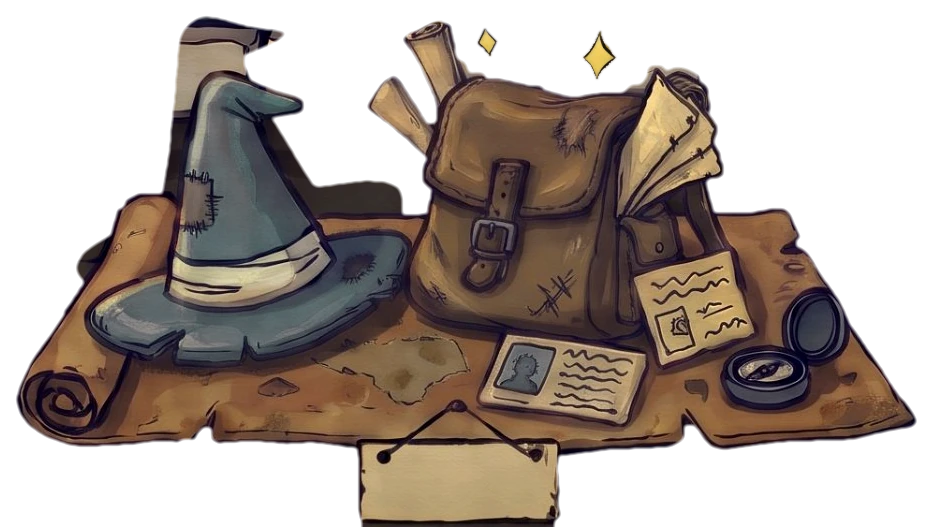
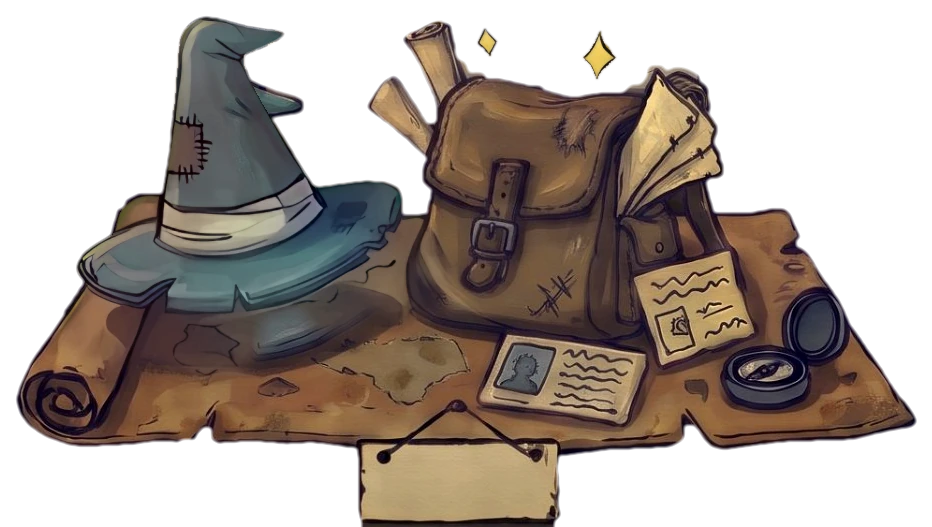
v23: hover frames drawn at one uniform scale (fixed button heights, no vertical stretch); construct outline follows raised fist and shelf end; About hat float restored and outline matches it
Claude-Session: https://claude.ai/code/session_01DVG5f7VBQkdwappbx1RNPL

Changed region(s): [[0.0622, 0.0304, 0.4979, 0.7287]]

diff --git a/concepts/scenes/workshop.js b/concepts/scenes/workshop.js
@@ -21,7 +21,7 @@ PF.init({
     var el=P.el,K=900/572,OX=(1600-1024*K)/2,T='translate('+OX+',0) scale('+K+')';
     var CUT={raven:{x:49.69,y:19.48,w:233.74,h:296.94},construct:{x:769.59,y:48.10,w:254.41,h:273.49},books:{x:50.09,y:331.93,w:234.93,h:239.70},about:{x:333.52,y:358.96,w:377.24,h:212.67},disc:{x:674.98,y:275.88,w:284.22,h:295.75}};
     var HOV={raven:{x:53.66,y:22.66,w:294.56,h:289.39},books:{x:69.57,y:241.29,w:212.67,h:166.96},construct:{x:748.52,y:50.48,w:205.12,h:209.09},about:{x:336.30,y:362.14,w:370.48,h:209.49},disc:{x:718.31,y:280.25,w:236.52,h:256.00}};
-    var RING={"disc":"M843.13 567.66 807.75 568.01 797.81 567.80 795.43 567.05 791.82 563.28 790.78 560.50 789.90 543.80 790.00 537.04 791.11 533.86 790.66 532.90 777.14 526.69 772.77 527.71 768.40 527.68 764.02 526.95 760.05 525.02 758.06 524.64 751.70 527.14 745.34 527.28 735.40 525.91 733.02 524.89 728.66 520.75 728.04 519.16 728.12 517.57 732.08 511.60 736.20 506.75 738.02 502.06 737.52 500.07 735.66 496.89 734.30 488.55 732.62 485.83 730.63 484.50 714.73 481.58 699.63 482.31 694.06 481.34 691.74 480.20 690.03 478.61 685.10 472.25 684.22 469.47 684.51 467.08 687.11 461.91 689.69 459.35 695.25 455.86 702.81 452.48 713.54 449.81 715.21 448.40 712.15 432.10 710.82 418.98 710.84 404.67 712.95 386.39 715.83 374.06 720.62 360.55 728.15 345.04 734.75 335.11 743.21 324.37 753.69 313.89 763.63 306.16 773.57 299.85 783.90 294.66 794.63 290.48 806.56 287.27 821.66 285.13 833.99 285.10 838.76 286.18 846.31 286.54 866.98 292.82 870.56 293.10 873.34 293.94 884.07 299.02 888.84 301.85 906.73 314.81 913.89 320.63 916.27 324.42 924.54 334.71 929.83 342.66 935.87 353.39 941.15 365.71 944.32 375.25 947.48 388.77 949.55 405.47 949.70 415.80 951.16 420.57 951.14 424.15 949.92 431.70 947.06 445.22 944.75 453.57 931.06 482.58 930.88 485.37 932.02 488.94 932.31 493.32 934.85 500.07 934.57 502.06 932.95 505.24 932.77 510.01 931.73 512.40 930.19 513.92 928.20 514.82 921.84 515.13 918.66 518.36 916.67 519.42 911.50 518.67 908.72 519.18 900.37 525.88 894.81 529.02 891.23 529.34 882.88 527.62 871.27 532.67 870.59 533.86 872.83 536.25 874.05 540.62 874.47 551.35 874.03 562.48 873.27 564.47 871.75 565.66 869.37 566.34 843.13 567.66Z","raven":"M142.71 308.88 135.95 309.21 124.82 308.32 122.43 307.29 120.40 305.69 119.48 304.10 119.01 301.71 119.23 291.78 117.71 281.04 118.37 276.27 119.87 274.68 122.43 273.73 132.91 273.09 137.90 268.72 138.29 267.93 137.93 267.13 132.37 266.03 128.80 265.91 111.70 267.86 69.17 267.82 65.19 267.20 62.01 266.00 59.05 263.55 57.37 261.17 56.11 254.41 56.41 240.50 58.54 235.73 60.02 234.19 62.81 232.54 63.61 230.56 63.27 207.11 63.84 202.73 64.93 199.16 63.29 190.81 62.87 168.94 63.54 163.78 66.38 155.83 64.62 150.26 63.68 143.50 63.65 127.60 64.15 122.04 65.82 115.68 68.56 109.71 66.99 105.74 66.98 102.16 68.69 93.02 72.28 81.89 75.73 75.13 79.80 69.57 83.08 66.42 87.78 64.00 89.72 58.04 94.21 52.77 115.68 36.08 120.05 33.68 127.20 32.32 132.77 29.65 138.73 27.74 150.26 25.64 163.38 25.08 175.30 25.59 185.24 27.57 189.22 29.12 192.80 31.47 199.95 32.53 205.52 34.95 218.63 44.51 226.19 50.78 229.38 54.06 231.48 58.04 235.33 60.42 238.60 63.60 240.99 67.18 246.75 78.31 253.01 96.99 254.29 102.56 254.10 107.73 255.30 111.30 255.85 115.28 256.42 125.61 256.77 126.81 257.59 127.51 259.98 127.43 268.72 124.69 270.71 125.12 273.09 126.60 274.68 126.79 284.22 124.08 293.50 120.45 310.86 110.23 315.23 108.20 317.22 108.47 318.79 110.11 318.91 112.50 317.51 116.47 318.01 117.19 318.81 117.18 323.67 114.88 335.11 108.22 338.29 107.27 339.88 107.66 341.25 108.92 341.71 110.51 341.33 112.89 338.59 117.66 332.30 124.82 332.17 126.01 333.91 126.23 345.04 122.83 346.63 123.18 347.73 124.02 348.47 126.81 346.72 130.39 339.88 137.24 335.90 140.14 325.59 145.89 325.81 146.68 326.76 147.01 335.90 147.63 337.49 148.81 338.04 150.66 337.09 152.76 333.91 155.61 323.11 160.60 322.92 161.39 324.12 164.57 322.78 166.99 319.20 169.06 314.43 170.89 308.87 170.89 306.56 174.51 304.89 175.94 301.71 177.51 296.15 179.15 294.78 182.46 292.97 184.24 290.58 185.10 283.03 186.30 280.71 189.61 279.06 190.91 272.55 192.00 271.30 195.58 269.91 196.95 266.73 198.11 262.76 198.19 261.68 199.16 258.40 205.12 257.60 211.48 256.78 228.57 257.59 230.72 261.57 232.72 263.45 234.53 264.98 237.32 265.98 240.50 267.02 246.06 267.05 253.22 265.96 259.98 264.35 262.43 260.77 264.90 256.80 265.86 204.72 266.31 184.49 267.93 183.72 268.72 183.86 269.52 186.83 271.86 188.82 272.30 198.36 272.56 200.30 273.49 201.48 275.08 201.89 277.86 201.88 302.11 201.54 304.10 200.75 305.31 197.96 306.71 188.02 307.60 142.71 308.88Z","books":"M159.01 566.46 142.31 566.37 137.14 565.32 131.58 566.05 128.40 564.83 125.91 562.09 124.11 549.76 124.20 532.27 125.51 529.49 128.40 527.26 131.58 526.46 138.34 525.90 138.71 525.12 138.39 524.32 134.41 520.35 122.43 514.65 116.07 512.56 105.25 508.02 96.99 506.70 87.85 503.87 77.04 498.88 63.60 494.00 61.22 492.59 59.23 490.66 57.82 487.75 57.73 482.98 60.34 474.63 58.96 469.86 59.01 464.70 56.62 458.34 56.31 449.19 57.53 446.81 61.28 443.63 61.92 442.43 62.59 434.88 63.94 430.91 64.63 422.96 66.60 416.60 71.16 409.69 73.54 407.95 77.91 406.00 79.64 403.88 79.85 397.12 78.03 391.55 79.09 387.98 81.89 385.29 85.86 383.09 97.79 377.88 105.34 375.90 106.60 374.86 106.28 373.27 99.95 361.74 97.96 355.38 97.44 351.40 97.47 343.45 98.37 335.50 103.69 321.59 106.00 318.41 107.73 317.26 110.51 316.58 129.99 315.18 147.88 313.15 159.40 311.30 161.79 310.39 166.16 306.59 168.94 305.21 175.70 303.41 183.25 303.66 194.16 296.55 213.47 282.46 217.04 280.79 221.02 280.46 224.20 281.23 228.97 283.44 233.74 283.17 237.71 283.93 242.48 286.41 247.03 290.58 248.72 292.97 250.56 297.74 251.57 303.70 250.67 309.27 253.11 313.24 253.93 317.22 253.81 321.99 252.24 328.75 250.73 331.53 248.45 334.10 243.68 337.19 227.78 341.66 214.66 344.48 213.39 345.44 213.89 346.24 217.84 347.75 220.62 349.67 223.31 352.60 225.14 355.78 226.90 360.55 227.70 365.71 227.52 370.48 226.03 373.66 226.43 374.86 232.94 376.29 241.29 377.00 245.27 377.89 248.84 380.13 253.95 382.01 256.13 384.00 257.46 385.99 258.21 388.37 258.20 391.16 255.44 396.32 254.97 401.09 259.18 406.92 262.38 410.24 263.46 413.42 263.04 416.60 260.91 420.17 259.37 426.53 259.36 428.52 260.56 430.91 263.07 432.89 269.12 435.01 272.30 437.17 274.65 439.65 276.10 442.43 277.99 449.19 278.61 455.95 278.06 463.50 276.35 472.65 274.40 477.02 270.31 480.30 263.16 483.20 258.39 484.56 250.43 488.17 236.92 492.12 221.10 498.09 210.68 502.69 196.77 507.27 193.19 509.48 187.67 515.18 187.55 516.37 188.42 517.43 200.92 525.91 203.13 526.31 209.49 525.46 216.65 525.80 219.83 526.88 222.55 529.49 223.72 533.07 224.13 557.71 223.51 560.50 221.42 562.94 217.84 564.58 211.48 565.36 188.42 565.64 178.48 566.39 159.01 566.46Z","construct":"M1023.60 273.45 1008.50 272.27 979.88 272.26 969.14 272.71 965.55 273.49 965.16 274.29 965.57 275.33 968.35 277.93 972.72 278.29 980.27 277.72 983.12 279.06 985.28 281.84 985.71 284.22 985.73 306.88 984.35 309.66 981.47 311.36 977.49 312.34 959.60 313.58 921.04 313.61 911.90 314.31 909.52 313.89 905.94 312.15 904.12 309.27 903.99 286.61 904.37 283.83 905.55 281.84 907.93 280.45 919.20 279.06 922.29 276.27 922.61 275.48 922.22 274.68 920.65 274.27 909.12 274.22 890.04 273.07 870.56 273.73 849.09 272.04 845.52 271.31 842.34 270.04 826.83 261.14 817.69 258.26 805.37 249.95 800.18 244.87 794.63 242.53 792.81 240.50 790.66 236.09 785.89 232.95 784.48 230.16 781.91 221.82 779.45 219.43 778.59 217.84 778.34 208.21 777.54 207.26 773.60 205.12 772.69 203.13 773.48 201.14 776.35 198.27 781.12 194.66 789.07 190.07 794.63 184.88 802.58 181.59 813.32 173.85 816.89 172.42 822.06 171.20 828.02 171.49 829.63 169.74 829.73 167.75 826.15 163.78 823.74 158.61 816.89 156.37 814.78 154.63 813.10 152.25 810.78 147.48 810.26 144.30 810.95 142.31 814.11 138.73 814.42 136.75 813.32 135.41 807.35 132.02 805.58 129.19 805.57 124.02 807.25 117.27 808.94 115.58 814.11 114.18 815.25 113.29 814.97 112.10 812.08 108.52 811.47 106.53 812.31 102.96 814.91 99.22 822.06 92.34 824.05 91.62 828.42 91.51 829.65 87.06 834.39 82.79 837.17 81.37 843.13 79.44 845.52 79.30 847.50 80.01 852.27 84.82 853.86 85.69 855.06 85.43 859.83 82.09 862.61 81.21 866.19 81.26 875.33 83.36 876.99 83.08 880.89 80.67 881.94 79.50 881.65 75.53 880.63 71.95 880.75 69.17 881.93 67.18 885.66 63.47 887.65 62.23 892.82 60.45 897.59 60.60 905.94 54.55 909.52 53.06 912.70 52.58 914.68 52.98 917.47 54.42 920.65 54.17 922.24 54.65 923.42 56.05 924.62 59.68 928.20 61.73 929.79 61.99 933.76 60.99 938.14 62.35 940.98 64.80 944.87 70.76 945.00 73.54 943.13 77.91 943.66 81.49 944.50 83.23 948.07 85.41 950.22 87.85 950.76 89.84 950.79 95.80 950.40 97.79 949.04 99.78 946.48 101.99 942.91 103.88 941.34 106.14 941.12 108.12 942.77 112.89 942.66 116.87 944.10 118.50 954.04 122.60 957.79 126.01 960.24 129.59 965.70 141.12 966.31 145.89 965.68 150.26 964.37 152.37 959.60 156.79 958.75 159.40 963.60 169.74 967.90 182.06 968.58 184.84 968.68 189.22 971.65 194.39 972.26 201.94 970.66 210.29 970.87 211.88 972.72 212.88 979.48 213.82 996.57 214.74 1000.94 215.45 1006.51 213.99 1023.60 212.31Z","about":"M559.70 567.76 478.21 567.87 477.01 567.25 476.33 565.66 476.34 561.29 477.13 556.92 476.63 544.20 476.22 542.55 475.03 541.64 468.27 541.30 460.32 540.20 453.17 540.54 436.47 539.79 422.96 540.14 420.17 539.57 416.60 537.61 415.40 537.88 412.62 540.00 410.24 540.65 400.70 539.41 391.95 540.51 378.83 541.34 364.92 541.30 357.76 539.26 351.40 534.79 344.67 528.30 342.93 525.12 341.98 521.14 341.99 516.77 342.94 512.00 346.11 505.24 356.98 489.74 357.59 488.15 357.53 484.97 357.99 483.38 363.06 475.83 363.29 474.24 361.88 468.27 363.46 462.71 365.25 459.93 367.30 457.84 376.55 451.58 379.80 443.63 384.40 438.46 389.96 435.25 395.53 434.23 396.78 432.89 399.06 419.78 403.24 376.05 405.23 371.28 408.65 367.41 413.81 364.79 416.60 364.24 420.17 364.27 424.94 364.99 436.76 368.10 448.00 369.86 451.58 370.91 453.57 372.44 454.43 374.06 454.53 375.65 452.90 378.83 448.80 382.25 440.05 386.42 439.12 387.58 439.05 388.77 440.84 393.27 444.42 399.92 460.72 426.56 463.18 430.11 465.09 431.17 483.78 429.40 490.53 430.01 494.51 431.25 498.09 433.15 499.28 432.89 500.36 426.93 497.92 423.75 496.82 420.97 487.24 413.02 482.40 408.25 480.83 406.26 480.36 403.88 482.88 397.52 488.20 389.57 494.09 385.19 494.10 384.00 491.25 379.63 491.16 377.64 491.82 376.05 493.32 374.64 497.69 372.52 501.66 369.11 505.64 367.79 513.59 367.28 516.22 368.50 517.38 370.88 521.14 383.92 522.84 387.98 524.32 389.21 536.25 388.99 549.37 391.83 564.07 395.87 588.32 395.83 589.52 395.52 590.71 394.35 594.04 387.58 595.48 386.60 597.07 386.36 601.84 387.98 606.21 387.41 610.98 388.36 614.56 390.66 618.99 395.13 620.34 398.31 620.06 404.27 623.08 408.25 624.55 411.43 624.71 413.81 623.60 418.58 627.14 428.52 627.07 430.51 626.41 432.10 622.12 436.47 623.16 440.84 624.50 441.82 628.07 442.47 632.45 444.39 636.02 444.33 645.96 442.60 649.54 443.44 651.93 445.17 658.29 459.93 662.90 465.89 664.65 470.07 668.31 476.22 671.80 480.20 673.51 482.98 674.44 485.37 675.38 490.66 689.17 508.42 692.09 512.80 694.33 517.57 697.24 519.96 701.15 525.12 701.87 527.11 701.70 529.49 699.63 532.11 694.46 534.44 673.39 538.48 649.14 539.44 634.83 541.30 622.91 542.13 618.53 540.85 612.17 535.14 611.38 535.46 609.39 539.42 606.21 540.79 594.29 541.37 588.32 540.25 585.54 540.23 580.37 540.72 573.61 542.85 562.48 543.54 561.42 544.20 561.06 545.39 561.18 565.66 560.81 566.86 559.70 567.76Z"};
+    var RING={"disc":"M843.13 567.66 807.75 568.01 797.81 567.80 795.43 567.05 791.82 563.28 790.78 560.50 789.90 543.80 790.00 537.04 791.11 533.86 790.66 532.90 777.14 526.69 772.77 527.71 768.40 527.68 764.02 526.95 760.05 525.02 758.06 524.64 751.70 527.14 745.34 527.28 735.40 525.91 733.02 524.89 728.66 520.75 728.04 519.16 728.12 517.57 732.08 511.60 736.20 506.75 738.02 502.06 737.52 500.07 735.66 496.89 734.30 488.55 732.62 485.83 730.63 484.50 714.73 481.58 699.63 482.31 694.06 481.34 691.74 480.20 690.03 478.61 685.10 472.25 684.22 469.47 684.51 467.08 687.11 461.91 689.69 459.35 695.25 455.86 702.81 452.48 713.54 449.81 715.21 448.40 712.15 432.10 710.82 418.98 710.84 404.67 712.95 386.39 715.83 374.06 720.62 360.55 728.15 345.04 734.75 335.11 743.21 324.37 753.69 313.89 763.63 306.16 773.57 299.85 783.90 294.66 794.63 290.48 806.56 287.27 821.66 285.13 833.99 285.10 838.76 286.18 846.31 286.54 866.98 292.82 870.56 293.10 873.34 293.94 884.07 299.02 888.84 301.85 906.73 314.81 913.89 320.63 916.27 324.42 924.54 334.71 929.83 342.66 935.87 353.39 941.15 365.71 944.32 375.25 947.48 388.77 949.55 405.47 949.70 415.80 951.16 420.57 951.14 424.15 949.92 431.70 947.06 445.22 944.75 453.57 931.06 482.58 930.88 485.37 932.02 488.94 932.31 493.32 934.85 500.07 934.57 502.06 932.95 505.24 932.77 510.01 931.73 512.40 930.19 513.92 928.20 514.82 921.84 515.13 918.66 518.36 916.67 519.42 911.50 518.67 908.72 519.18 900.37 525.88 894.81 529.02 891.23 529.34 882.88 527.62 871.27 532.67 870.59 533.86 872.83 536.25 874.05 540.62 874.47 551.35 874.03 562.48 873.27 564.47 871.75 565.66 869.37 566.34 843.13 567.66Z","raven":"M142.71 308.88 135.95 309.21 124.82 308.32 122.43 307.29 120.40 305.69 119.48 304.10 119.01 301.71 119.23 291.78 117.71 281.04 118.37 276.27 119.87 274.68 122.43 273.73 132.91 273.09 137.90 268.72 138.29 267.93 137.93 267.13 132.37 266.03 128.80 265.91 111.70 267.86 69.17 267.82 65.19 267.20 62.01 266.00 59.05 263.55 57.37 261.17 56.11 254.41 56.41 240.50 58.54 235.73 60.02 234.19 62.81 232.54 63.61 230.56 63.27 207.11 63.84 202.73 64.93 199.16 63.29 190.81 62.87 168.94 63.54 163.78 66.38 155.83 64.62 150.26 63.68 143.50 63.65 127.60 64.15 122.04 65.82 115.68 68.56 109.71 66.99 105.74 66.98 102.16 68.69 93.02 72.28 81.89 75.73 75.13 79.80 69.57 83.08 66.42 87.78 64.00 89.72 58.04 94.21 52.77 115.68 36.08 120.05 33.68 127.20 32.32 132.77 29.65 138.73 27.74 150.26 25.64 163.38 25.08 175.30 25.59 185.24 27.57 189.22 29.12 192.80 31.47 199.95 32.53 205.52 34.95 218.63 44.51 226.19 50.78 229.38 54.06 231.48 58.04 235.33 60.42 238.60 63.60 240.99 67.18 246.75 78.31 253.01 96.99 254.29 102.56 254.10 107.73 255.30 111.30 255.85 115.28 256.42 125.61 256.77 126.81 257.59 127.51 259.98 127.43 268.72 124.69 270.71 125.12 273.09 126.60 274.68 126.79 284.22 124.08 293.50 120.45 310.86 110.23 315.23 108.20 317.22 108.47 318.79 110.11 318.91 112.50 317.51 116.47 318.01 117.19 318.81 117.18 323.67 114.88 335.11 108.22 338.29 107.27 339.88 107.66 341.25 108.92 341.71 110.51 341.33 112.89 338.59 117.66 332.30 124.82 332.17 126.01 333.91 126.23 345.04 122.83 346.63 123.18 347.73 124.02 348.47 126.81 346.72 130.39 339.88 137.24 335.90 140.14 325.59 145.89 325.81 146.68 326.76 147.01 335.90 147.63 337.49 148.81 338.04 150.66 337.09 152.76 333.91 155.61 323.11 160.60 322.92 161.39 324.12 164.57 322.78 166.99 319.20 169.06 314.43 170.89 308.87 170.89 306.56 174.51 304.89 175.94 301.71 177.51 296.15 179.15 294.78 182.46 292.97 184.24 290.58 185.10 283.03 186.30 280.71 189.61 279.06 190.91 272.55 192.00 271.30 195.58 269.91 196.95 266.73 198.11 262.76 198.19 261.68 199.16 258.40 205.12 257.60 211.48 256.78 228.57 257.59 230.72 261.57 232.72 263.45 234.53 264.98 237.32 265.98 240.50 267.02 246.06 267.05 253.22 265.96 259.98 264.35 262.43 260.77 264.90 256.80 265.86 204.72 266.31 184.49 267.93 183.72 268.72 183.86 269.52 186.83 271.86 188.82 272.30 198.36 272.56 200.30 273.49 201.48 275.08 201.89 277.86 201.88 302.11 201.54 304.10 200.75 305.31 197.96 306.71 188.02 307.60 142.71 308.88Z","books":"M159.01 566.46 142.31 566.37 137.14 565.32 131.58 566.05 128.40 564.83 125.91 562.09 124.11 549.76 124.20 532.27 125.51 529.49 128.40 527.26 131.58 526.46 138.34 525.90 138.71 525.12 138.39 524.32 134.41 520.35 122.43 514.65 116.07 512.56 105.25 508.02 96.99 506.70 87.85 503.87 77.04 498.88 63.60 494.00 61.22 492.59 59.23 490.66 57.82 487.75 57.73 482.98 60.34 474.63 58.96 469.86 59.01 464.70 56.62 458.34 56.31 449.19 57.53 446.81 61.28 443.63 61.92 442.43 62.59 434.88 63.94 430.91 64.63 422.96 66.60 416.60 71.16 409.69 73.54 407.95 77.91 406.00 79.64 403.88 79.85 397.12 78.03 391.55 79.09 387.98 81.89 385.29 85.86 383.09 97.79 377.88 105.34 375.90 106.60 374.86 106.28 373.27 99.95 361.74 97.96 355.38 97.44 351.40 97.47 343.45 98.37 335.50 103.69 321.59 106.00 318.41 107.73 317.26 110.51 316.58 129.99 315.18 147.88 313.15 159.40 311.30 161.79 310.39 166.16 306.59 168.94 305.21 175.70 303.41 183.25 303.66 194.16 296.55 213.47 282.46 217.04 280.79 221.02 280.46 224.20 281.23 228.97 283.44 233.74 283.17 237.71 283.93 242.48 286.41 247.03 290.58 248.72 292.97 250.56 297.74 251.57 303.70 250.67 309.27 253.11 313.24 253.93 317.22 253.81 321.99 252.24 328.75 250.73 331.53 248.45 334.10 243.68 337.19 227.78 341.66 214.66 344.48 213.39 345.44 213.89 346.24 217.84 347.75 220.62 349.67 223.31 352.60 225.14 355.78 226.90 360.55 227.70 365.71 227.52 370.48 226.03 373.66 226.43 374.86 232.94 376.29 241.29 377.00 245.27 377.89 248.84 380.13 253.95 382.01 256.13 384.00 257.46 385.99 258.21 388.37 258.20 391.16 255.44 396.32 254.97 401.09 259.18 406.92 262.38 410.24 263.46 413.42 263.04 416.60 260.91 420.17 259.37 426.53 259.36 428.52 260.56 430.91 263.07 432.89 269.12 435.01 272.30 437.17 274.65 439.65 276.10 442.43 277.99 449.19 278.61 455.95 278.06 463.50 276.35 472.65 274.40 477.02 270.31 480.30 263.16 483.20 258.39 484.56 250.43 488.17 236.92 492.12 221.10 498.09 210.68 502.69 196.77 507.27 193.19 509.48 187.67 515.18 187.55 516.37 188.42 517.43 200.92 525.91 203.13 526.31 209.49 525.46 216.65 525.80 219.83 526.88 222.55 529.49 223.72 533.07 224.13 557.71 223.51 560.50 221.42 562.94 217.84 564.58 211.48 565.36 188.42 565.64 178.48 566.39 159.01 566.46Z","construct":"M1023.60 271.46 1020.02 271.33 1012.07 269.92 993.39 269.48 983.06 270.01 980.27 270.59 978.75 271.50 977.13 274.29 976.93 276.67 978.29 279.75 981.86 282.59 982.80 284.22 983.07 297.74 984.18 304.89 983.42 308.07 979.88 310.93 945.29 311.99 918.26 311.67 911.90 312.36 909.12 311.85 906.29 310.06 905.22 307.28 905.21 299.33 905.89 294.96 905.65 285.81 908.00 281.04 908.55 278.66 908.00 276.27 906.67 274.29 904.44 273.09 897.99 271.54 889.24 270.32 867.38 270.66 860.22 269.90 845.12 269.65 837.57 266.21 830.01 260.80 823.25 258.62 815.70 255.21 810.53 253.51 804.57 249.33 800.04 244.87 794.57 242.48 792.81 240.50 790.58 236.52 785.60 232.55 782.41 223.40 782.57 220.22 784.70 216.41 785.31 214.26 784.92 211.88 783.50 209.55 781.52 208.34 774.76 206.08 766.01 202.21 755.68 196.23 751.39 192.40 750.65 190.41 750.57 187.63 751.92 173.71 753.85 166.16 757.27 160.52 760.94 152.25 763.23 149.36 766.41 147.65 770.39 146.56 775.55 146.04 780.72 146.40 783.50 147.21 788.27 150.10 795.43 150.87 803.76 153.84 807.75 153.93 808.94 153.36 813.99 139.93 812.92 136.22 808.12 131.98 807.02 128.80 807.03 124.02 807.53 122.04 808.88 120.45 812.15 118.06 813.89 114.48 813.71 111.80 811.58 106.93 812.40 102.96 814.76 99.38 821.66 92.60 823.65 91.68 828.42 90.75 829.95 89.84 832.61 84.67 834.39 82.79 837.57 81.23 844.72 79.24 847.11 79.79 851.19 83.08 853.86 83.92 857.04 83.60 860.62 81.70 863.01 81.18 873.34 82.49 877.30 81.89 879.62 80.30 880.98 77.52 881.24 75.53 880.56 70.76 881.07 68.37 886.86 62.55 892.02 60.28 897.59 60.55 900.27 60.02 901.57 59.17 904.75 55.30 909.12 53.18 912.70 52.54 918.26 53.04 922.61 54.86 925.06 58.83 927.01 60.39 930.19 61.11 934.56 61.07 938.53 62.58 942.60 66.39 944.75 69.96 945.13 72.75 943.53 77.91 943.62 80.30 944.97 83.08 948.61 85.86 950.40 88.25 950.78 96.20 950.26 98.98 949.31 100.57 944.60 103.35 943.07 104.94 942.04 107.33 941.95 109.32 943.30 115.20 944.26 117.27 945.79 118.86 951.59 122.04 956.34 132.37 960.74 137.94 961.77 140.32 962.32 143.90 962.10 148.27 957.32 156.22 956.56 159.80 957.67 163.78 961.02 170.14 962.00 175.30 964.82 181.66 965.59 188.82 969.22 195.18 969.48 206.31 968.42 212.67 969.54 216.37 971.93 218.41 976.91 219.43 990.21 218.88 992.20 219.63 996.25 222.61 1001.74 223.43 1007.30 222.37 1010.88 218.17 1013.27 216.72 1023.60 215.89Z","about":"M559.70 567.76 478.21 567.87 477.01 567.25 476.33 565.66 476.34 561.29 477.13 556.92 476.63 544.20 476.22 542.55 475.03 541.64 468.27 541.30 460.32 540.20 453.17 540.54 436.47 539.79 422.96 540.14 420.17 539.57 416.60 537.61 415.40 537.88 412.62 540.00 410.24 540.65 400.70 539.41 391.95 540.51 378.83 541.34 364.92 541.30 357.76 539.26 351.40 534.79 344.67 528.30 342.93 525.12 341.98 521.14 341.99 516.77 342.94 512.00 346.11 505.24 356.98 489.74 357.59 488.15 357.53 484.97 357.99 483.38 363.06 475.83 363.29 474.24 361.88 468.27 363.46 462.71 365.25 459.93 367.30 457.84 376.55 451.58 379.80 443.63 384.40 438.46 389.96 435.25 395.53 434.23 396.78 432.89 399.06 419.78 403.24 376.05 405.23 371.28 408.65 367.41 413.81 364.79 416.60 364.24 420.17 364.27 424.94 364.99 436.76 368.10 448.00 369.86 451.58 370.91 453.57 372.44 454.43 374.06 454.53 375.65 452.90 378.83 448.80 382.25 440.05 386.42 439.12 387.58 439.05 388.77 440.84 393.27 444.42 399.92 460.72 426.56 463.18 430.11 465.09 431.17 483.78 429.40 490.53 430.01 494.51 431.25 498.09 433.15 499.28 432.89 500.36 426.93 497.92 423.75 496.82 420.97 487.24 413.02 482.40 408.25 480.83 406.26 480.36 403.88 482.88 397.52 488.20 389.57 494.09 385.19 494.10 384.00 491.25 379.63 491.16 377.64 491.82 376.05 493.32 374.64 497.69 372.52 501.66 369.11 505.64 367.79 513.59 367.28 516.22 368.50 517.38 370.88 521.14 383.92 522.84 387.98 524.32 389.21 536.25 388.99 549.37 391.83 564.07 395.87 588.32 395.83 589.52 395.52 590.71 394.35 594.04 387.58 595.48 386.60 597.07 386.36 601.84 387.98 606.21 387.41 610.98 388.36 614.56 390.66 618.99 395.13 620.34 398.31 620.06 404.27 623.08 408.25 624.55 411.43 624.71 413.81 623.60 418.58 627.14 428.52 627.07 430.51 626.41 432.10 622.12 436.47 623.16 440.84 624.50 441.82 628.07 442.47 632.45 444.39 636.02 444.33 645.96 442.60 649.54 443.44 651.93 445.17 658.29 459.93 662.90 465.89 664.65 470.07 668.31 476.22 671.80 480.20 673.51 482.98 674.44 485.37 675.38 490.66 689.17 508.42 692.09 512.80 694.33 517.57 697.24 519.96 701.15 525.12 701.87 527.11 701.70 529.49 699.63 532.11 694.46 534.44 673.39 538.48 649.14 539.44 634.83 541.30 622.91 542.13 618.53 540.85 612.17 535.14 611.38 535.46 609.39 539.42 606.21 540.79 594.29 541.37 588.32 540.25 585.54 540.23 580.37 540.72 573.61 542.85 562.48 543.54 561.42 544.20 561.06 545.39 561.18 565.66 560.81 566.86 559.70 567.76Z"};
     var SIGN={raven:[123,276,75,29],books:[129,531,90,30],construct:[909,284,71,26],about:[479,536,79,30],disc:[794,536,78,27]};
     P.defs(
       '<radialGradient id="vig" cx=".5" cy=".5" r=".78"><stop offset=".62" stop-color="#0a0604" stop-opacity="0"/><stop offset="1" stop-color="#0a0604" stop-opacity=".5"/></radialGradient>'

diff --git a/concepts/core/core.css b/concepts/core/core.css
@@ -516,7 +516,18 @@ body[data-theme=workshop] .pf-cards .pf-item+.pf-item:before{display:none}
 @media(max-width:560px){.pf-cards .pf-item.open .pf-gdd{flex-direction:column}.pf-cards .pf-item.open .pf-gdd .cover{flex:none;width:100%;aspect-ratio:3/4}}
 
 /* v22: hover frames are sliced past the corner ornaments (64px of the art) so the swirls are never stretched; the centre of the art is flat so wide buttons stay clean */
+}
+
+/* v23: the ornate hover art is 236x67 and its swirls span the full height, so the frame must be drawn at ONE uniform scale: every button gets a fixed height = 67 x scale and 26/64-sliced borders at that same scale (nothing in the middle is stretched). */
+body[data-theme=workshop] .pf-btn,body[data-theme=workshop] .pf-tab,body[data-theme=workshop] .pf-copy{display:inline-flex;align-items:center;justify-content:center;box-sizing:border-box;line-height:1.1;white-space:nowrap}
+body[data-theme=workshop] .pf-btn{height:38px;padding:0 30px}
+body[data-theme=workshop] .pf-tab{height:32px;padding:0 28px}
+body[data-theme=workshop] .pf-copy{height:28px;padding:0 23px}
+body[data-theme=workshop] .pf-btn:hover,body[data-theme=workshop] .pf-btn:focus-visible,body[data-theme=workshop] .pf-btn.ghost:hover,body[data-theme=workshop] .pf-btn.ghost:focus-visible{border-image-width:14.75px 36.3px}
+body[data-theme=workshop] .pf-tab:not(.on):hover,body[data-theme=workshop] .pf-tab:not(.on):focus-visible,body[data-theme=workshop] .pf-tab.on:hover,body[data-theme=workshop] .pf-tab.on:focus-visible{border-image-width:12.4px 30.6px}
+body[data-theme=workshop] .pf-copy:hover,body[data-theme=workshop] .pf-copy:focus-visible{border-image-width:10.9px 26.7px}
 @media (max-width:760px){
- body[data-theme=workshop] .pf-tab:not(.on):hover,body[data-theme=workshop] .pf-tab.on:hover{border-image-width:8px 16px}
- body[data-theme=workshop] .pf-tab{padding:0 9px}
+ body[data-theme=workshop] .pf-tab{height:28px;padding:0 9px}
+ body[data-theme=workshop] .pf-tab:not(.on):hover,body[data-theme=workshop] .pf-tab.on:hover{border-image-width:8px 12px;border-image-slice:26 30 fill;border-image-source:url(../ui/chip.png)}
+ body[data-theme=workshop] .pf-tab.on:hover{border-image-source:url(../ui/btn.png)}
 }
